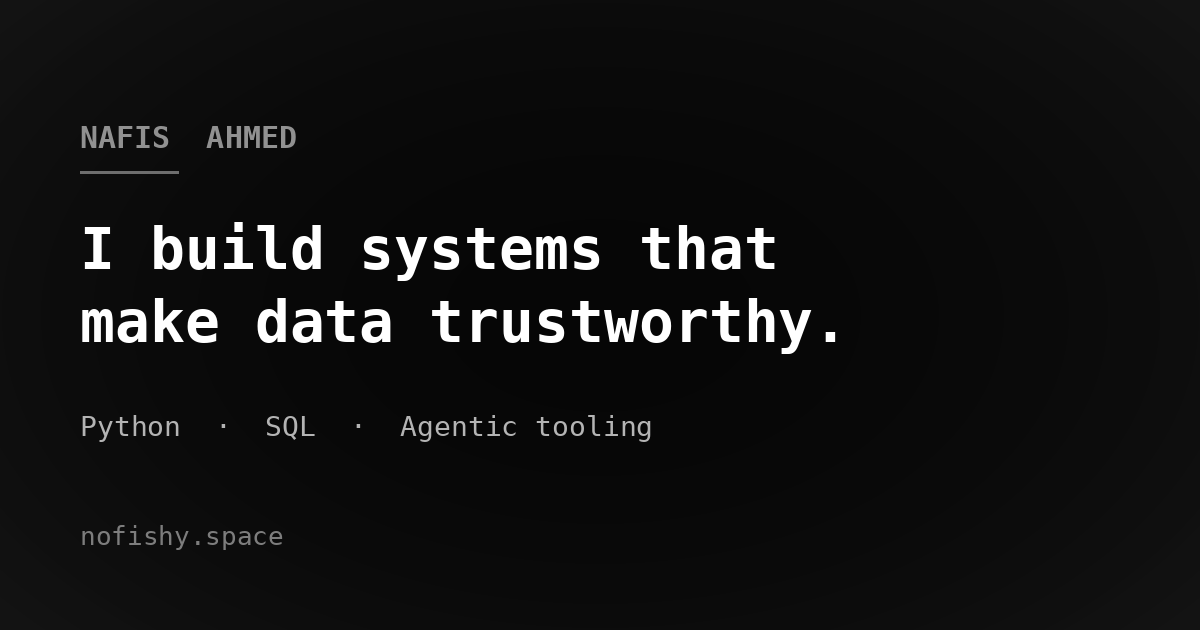
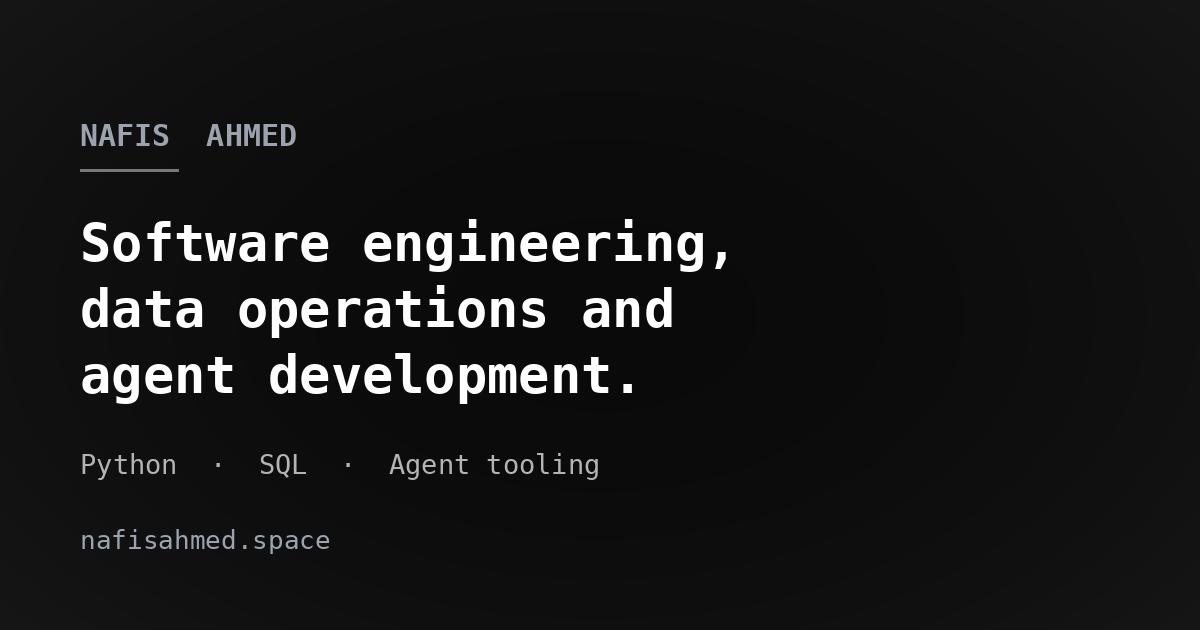
Move to nafisahmed.space
- index.html: canonical, og:url, og:image and twitter:image now point at
  https://www.nafisahmed.space, matching the primary host Netlify serves. The
  two image URLs matter most; pointed at a dead domain they break the LinkedIn
  preview card entirely rather than degrading.
- README: title, live link and author line.
- Regenerate og-image.png, which had the old domain drawn into the picture, and
  reword it to the opening the site actually uses.

nofishy.space stays attached and redirects, so resumes already sent still work.

Claude-Session: https://claude.ai/code/session_01AoSwK8uBL7PTL9Yh7Bmuid

diff --git a/index.html b/index.html
@@ -14,19 +14,19 @@
       name="description"
       content="Nafis Ahmed. Computer science and risk management student at St. John's University, working across software engineering, data operations and agent development."
     />
-    <link rel="canonical" href="https://www.nofishy.space/" />
+    <link rel="canonical" href="https://www.nafisahmed.space/" />
     <meta name="author" content="Nafis Ahmed" />
 
     <!-- Open Graph (LinkedIn, Slack, iMessage, Facebook) -->
     <meta property="og:type" content="website" />
     <meta property="og:site_name" content="Nafis Ahmed" />
-    <meta property="og:url" content="https://www.nofishy.space/" />
+    <meta property="og:url" content="https://www.nafisahmed.space/" />
     <meta property="og:title" content="Nafis Ahmed | Software & Data Engineering" />
     <meta
       property="og:description"
       content="Building towards a career that blends software engineering with data, analytics and risk, with experiences spanning data operations, process automation and AI and agent development."
     />
-    <meta property="og:image" content="https://www.nofishy.space/og-image.png" />
+    <meta property="og:image" content="https://www.nafisahmed.space/og-image.png" />
     <meta property="og:image:width" content="1200" />
     <meta property="og:image:height" content="630" />
     <meta property="og:image:alt" content="Nafis Ahmed | Software & Data Engineering" />
@@ -38,7 +38,7 @@
       name="twitter:description"
       content="Software engineering, data operations and agent development."
     />
-    <meta name="twitter:image" content="https://www.nofishy.space/og-image.png" />
+    <meta name="twitter:image" content="https://www.nafisahmed.space/og-image.png" />
 
     <!-- Google Fonts -->
     <link rel="preconnect" href="https://fonts.googleapis.com" />

diff --git a/README.md b/README.md
@@ -1,9 +1,9 @@
-# nofishy.space
+# nafisahmed.space
 
 Personal site for Nafis Ahmed — CS and Risk Management student at St. John's University,
 working at the seam between software engineering and data.
 
-Live at **[nofishy.space](https://www.nofishy.space)**.
+Live at **[nafisahmed.space](https://www.nafisahmed.space)**.
 
 ## Stack
 
@@ -58,7 +58,7 @@ npm run lint
 
 ## Author
 
-Nafis Ahmed — [nofishy.space](https://www.nofishy.space) ·
+Nafis Ahmed — [nafisahmed.space](https://www.nafisahmed.space) ·
 [github.com/nafisahmed510](https://github.com/nafisahmed510) ·
 [linkedin.com/in/nafisahmed510](https://linkedin.com/in/nafisahmed510)
 
